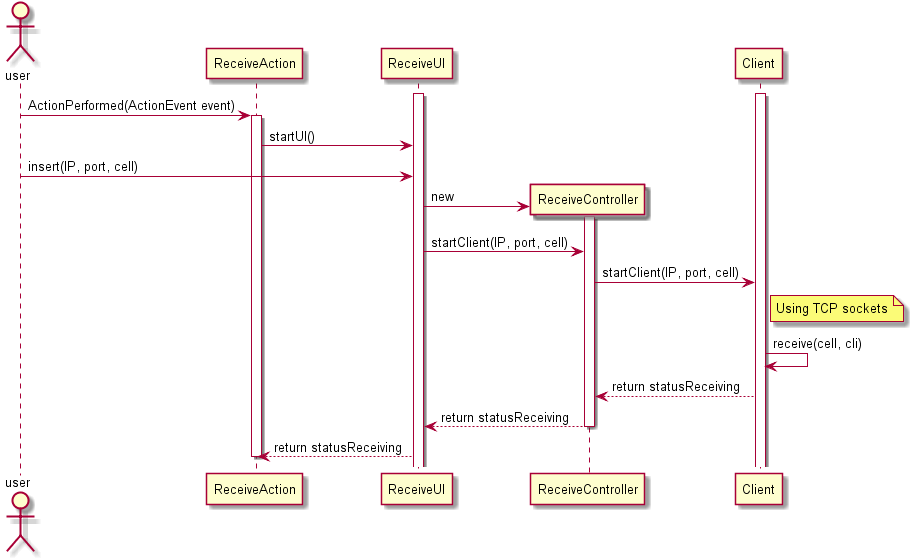
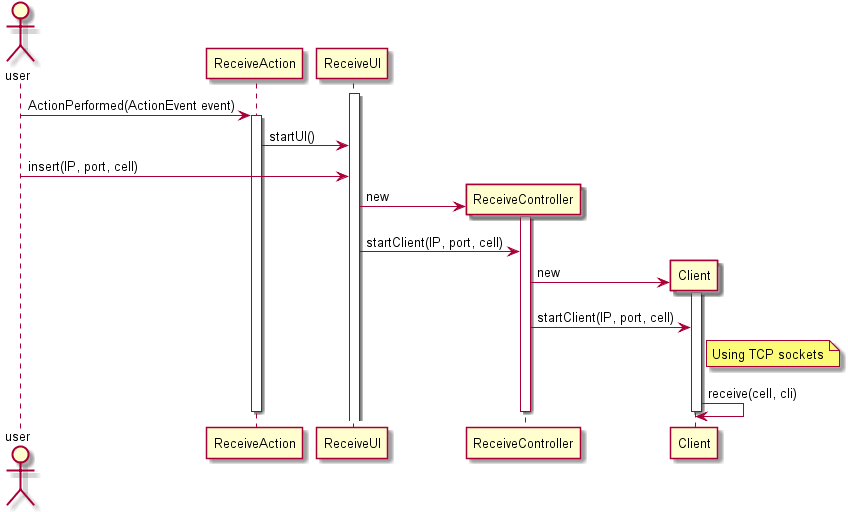
1100859: Updated sequence diagrams for server and client ref #1 #2

diff --git a/src/csheets/ext/share/package-info.java b/src/csheets/ext/share/package-info.java
@@ -150,7 +150,6 @@
  participant Server as svr
 
  activate sui
- activate svr
  us -> sa : ActionPerformed(ActionEvent event)
  activate sa
  sa -> sui : startUI()
@@ -159,15 +158,16 @@
  sui -> sc : new
  activate sc
  sui -> sc : startServer(port, cells)
+ Create svr
+ sc -> svr : new
+ activate svr
  sc -> svr : startServer(port, cells)
  note right svr
  Using TCP sockets
  end note
  svr -> svr : send(cells, svr)
- svr --> sc : return statusSending
- sc --> sui : return statusSending
+ deactivate svr
  deactivate sc
- sui --> sa : return statusSending
  deactivate sa
 
  @enduml
@@ -181,7 +181,6 @@
  participant Client as cli
 
  activate rui
- activate cli
  us -> ra : ActionPerformed(ActionEvent event)
  activate ra
  ra -> rui : startUI()
@@ -190,15 +189,18 @@
  rui -> rc : new
  activate rc
  rui -> rc : startClient(IP, port, cell)
+
+ Create cli
+
+ rc -> cli : new
+ activate cli
  rc -> cli : startClient(IP, port, cell)
  note right cli
  Using TCP sockets
  end note
  cli -> cli : receive(cell, cli)
- cli --> rc : return statusReceiving
- rc --> rui : return statusReceiving
+ deactivate cli
  deactivate rc
- rui --> ra : return statusReceiving
  deactivate ra
 
  @enduml
